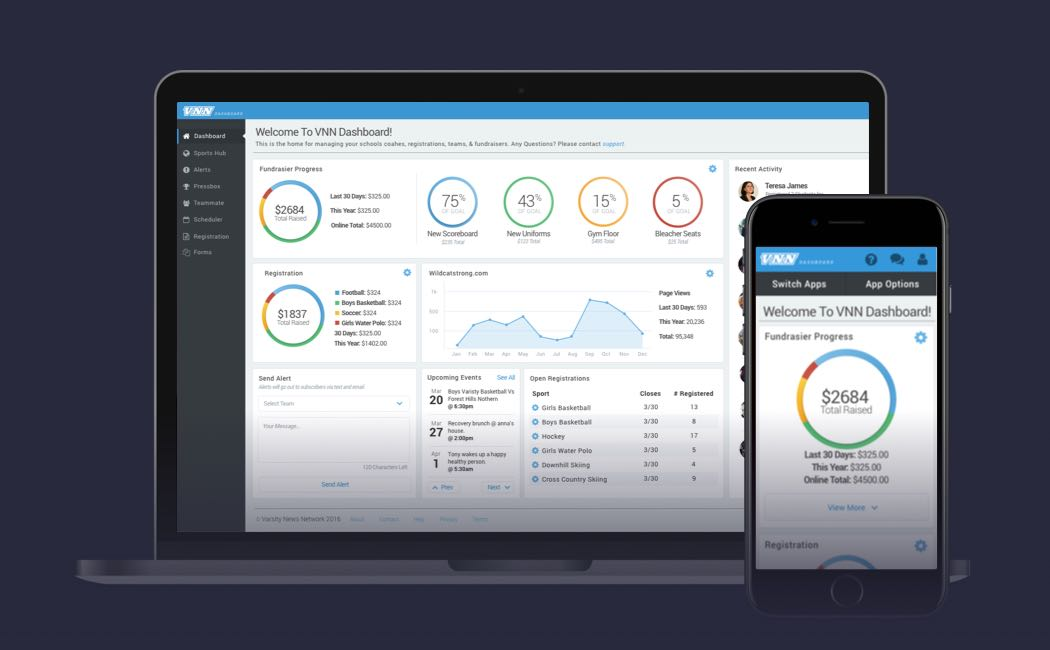
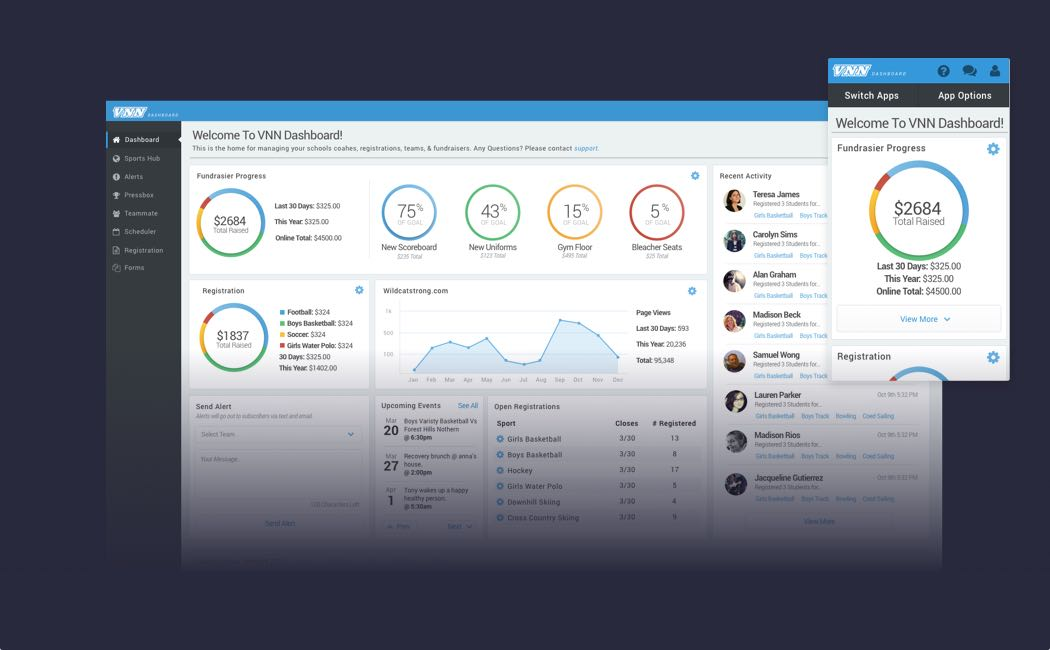
updated images on home

diff --git a/_layouts/home.html b/_layouts/home.html
@@ -80,7 +80,7 @@
                 <h2 class="post-title-new text-inverted">Misc Projects</h2>
                 <button class="btn">View Project</button>
                 <div class="post-image-new">
-                  <img src="../images/posts/misc/post-misc2.jpg">
+                  <img src="../images/posts/misc/post-misc.jpg">
                 </div>
               </a>
             </li>
